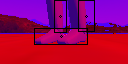
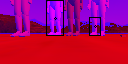
zombie

diff --git a/Zombie world/controllers/youbot_controller/youbot_controller.py b/Zombie world/controllers/youbot_controller/youbot_controller.py
@@ -5,6 +5,7 @@ from controller import Supervisor
 import numpy as np
 import cv2
 import math
+import pprint
 
 
 
@@ -170,8 +171,7 @@ def main():
         img_float32 = cv2.rotate(img_float32, cv2.ROTATE_90_CLOCKWISE)
         img_float32 = cv2.flip(img_float32, 1)
         image = cv2.cvtColor(img_float32, cv2.COLOR_RGB2HSV)
-        original_image = image.copy()
-        cv2.imwrite(f"original-sample-{i}.png",image)
+        original_image = cv2.cvtColor(img_float32, cv2.COLOR_RGB2HSV)
 
 
 
@@ -250,7 +250,7 @@ def main():
 
    
         
-        cv2.imwrite(f"bw-{i}.png",img)
+        # cv2.imwrite(f"bw-{i}.png",img)
         # ret,thresh = cv2.threshold(img,127,0,cv2.THRESH_BINARY)
         # thresh1 = cv2.adaptiveThreshold(img,255,cv2.ADAPTIVE_THRESH_MEAN_C,cv2.THRESH_BINARY,11,2)
 
@@ -258,7 +258,7 @@ def main():
         # thresh0 = cv2.Canny(img,50,100)
         contours, hierarchy = cv2.findContours(thresh,cv2.RETR_TREE,cv2.CHAIN_APPROX_SIMPLE)
         
-        print('countors',len(contours))
+        # print('countors',len(contours))
         
         # remove largest contour
         # get avergae pixel value of each contour
@@ -269,13 +269,11 @@ def main():
 
         # cv2.drawContours(original_image, contours, -1, (255,0,0), 1)
         # cv2.drawContours(img, contours, -1, (255,255,255), 1)
-        cv2.imwrite(f"thresh-{i}.png",thresh)
+        # cv2.imwrite(f"thresh-{i}.png",thresh)
         # find the bounding box of each contour
         bounding_boxes = [cv2.boundingRect(c) for c in contours]
         # remove bounding box with (0, 0, 128, 64) dimensions
         bounding_boxes = [b for b in bounding_boxes if b != (0, 0, 128, 64)]
-        for box in bounding_boxes:
-            print('before merge', box)
 
         # merge bounding boxes that overlap
         unused_boxes = bounding_boxes.copy()
@@ -293,7 +291,7 @@ def main():
                             y = min(y, y2)
                             w = max(x + w, x2 + w2) - x
                             h = max(y + h, y2 + h2) - y
-                            print('merged box', (x, y, w, h), 'from', box, box2)
+                            # print('merged box', (x, y, w, h), 'from', box, box2)
                             merged_boxes.append((x, y, w, h))
                             used_boxes.append(box)
                             if (box in unused_boxes):
@@ -321,29 +319,104 @@ def main():
 
         # remove bounding boxes that are too small
         bounding_boxes = [b for b in bounding_boxes if b[2] > 10 and b[3] > 10]
-        for box in bounding_boxes:
-            print('after merge', box)
+        merged_boxes = merge_boxes(bounding_boxes)
+        # add merged boxes to img
 
 
 
 
         # draw bounding boxes on image in black
         for box in bounding_boxes:
-            cv2.rectangle(original_image, box, (0,0,0), 1)
-            cv2.rectangle(img, box, (0,0,0), 1)
+            # if box width is greater than height, and it is in the lower half of the image, and the area is less than 500
+            is_foot = False
+            x, y, w, h = box
+            if (i == 32):
+                print('box', box, 'area', w * h, 'x', x, 'y', y, 'w', w, 'h', h)
+            if w >= h and y > 20 and w * h < 500:
+                # draw bounding box in white
+                is_foot = True
+                cv2.rectangle(original_image, (x, y), (x + w, y + h), (0, 0, 0), 1)
+            else:
+                cv2.rectangle(original_image, box, (0,0,0), 1)
+
+            
+
+
+
+            
         # find the center of each bounding box
 
         # get the the center pixel value of each bounding box
+
+        time_step_array = []
         for box in bounding_boxes:
-            # get the center of the bounding box
             center = (box[0] + box[2]//2, box[1] + box[3]//2)
+            likely_color = "unknown"
             # get mean of pixel value around the center of the bounding box
             mean = np.mean(image[center[1]-5:center[1]+5, center[0]-5:center[0]+5])
-            print('pixel value', i ,mean)
+            # get mean rgb pixel value around the center of the bounding box
+            mean_rgb = np.mean(image[center[1]-5:center[1]+5, center[0]-5:center[0]+5], axis=(0,1))
+
+            if (mean_rgb[0] > 245 and mean_rgb[1] > 180):
+                likely_color = "blue" 
+            elif (mean_rgb[0] > 225 and mean_rgb[1] > 170):
+                likely_color = "green" 
+            elif (mean_rgb[0] > 245 and mean_rgb[1] < 100):
+                likely_color = "purple" 
+            if (mean_rgb[0] > 245 and mean_rgb[1] > 101):
+                likely_color = "turquoise"
+            
+
+            mean_grayscale_value = np.mean(img[center[1]-5:center[1]+5, center[0]-5:center[0]+5])
+            # print('pixel value', i ,mean)
             # if the pixel value is not black, draw a circle at the center of the bounding box
             if mean != 0:
                 cv2.circle(original_image, center, 1, (0,0,0), 1)
                 cv2.circle(img, center, 1, (0,0,0), 1)
+                # get avg pixel value around center of bounding box
+                bounding_box_x_center = center[0]
+                bounding_box_lowest_y_coordinate = box[1] + box[3]
+                print('bounding_box_x_center', bounding_box_x_center, 'bounding_box_lowest_y_coordinate', bounding_box_lowest_y_coordinate, 'box', box, 'shape', original_image.shape)
+                # get the pixel of original image of the variables above
+                pixel_below_bounding_box = original_image[bounding_box_lowest_y_coordinate, bounding_box_x_center]
+                angle_pixel_coordinate = (bounding_box_x_center, bounding_box_lowest_y_coordinate)
+
+
+            
+                # print('pixel_below_bounding_box', pixel_below_bounding_box)
+                # if (pixel_below_bounding_box[2] >= 200 and pixel_below_bounding_box[2] <= 225):
+                #     is_foot = True
+                #     angle_pixel_coordinate = (bounding_box_x_center, bounding_box_lowest_y_coordinate)
+                # else:
+                #     new_pixel = pixel_below_bounding_box
+                #     while (new_pixel[2] < 200 or new_pixel[2] > 225):
+                #         print('new_pixel', new_pixel)
+                #         bounding_box_lowest_y_coordinate += 1
+                #         new_pixel = image[bounding_box_lowest_y_coordinate, bounding_box_x_center]
+                #         if (new_pixel[2] >= 200 and new_pixel[2] <= 225):
+                #             angle_pixel_coordinate = (bounding_box_x_center, bounding_box_lowest_y_coordinate)
+                #             break
+                center_pixel_coordinates = (64,64)
+                # calculate angle between center pixel and angle pixel in degrees
+                angle = math.degrees(math.atan2(angle_pixel_coordinate[1] - center_pixel_coordinates[1], angle_pixel_coordinate[0] - center_pixel_coordinates[0]))
+            zombie_obj = {
+                "type": 'zombie',
+                "zombie_color_guess": likely_color,
+                "is_close": is_foot,
+                "angle": angle,
+                "pixel_color": mean,
+                "pixel_rgb_color": mean_rgb,
+
+            }
+            time_step_array.append(zombie_obj)
+
+
+
+
+            
+
+
+
 
 
 
@@ -359,9 +432,10 @@ def main():
 
 
         print(i)
+        pprint.pprint(time_step_array)
         cv2.imwrite(f"sample-{i}.png",original_image)
         cv2.waitKey(1)
-        if (i == 15):
+        if (i == 10):
             break
 
 
@@ -375,3 +449,23 @@ def main():
 
 
 main()
+
+
+# # blue
+# array([254.26416, 188.83891, 228.58   ]
+# array([254.19077, 188.83807, 229.17   ]
+
+
+
+
+# # green
+# pixel_rgb_color': array([234.21764, 186.3212 , 228.08   ]
+
+
+# # purple
+# array([263.30103,  94.82111, 202.84   ]
+# array([263.99597 ,  99.899506, 212.19    ]
+
+
+# # turquoise
+# array([261.23218, 107.54085, 196.27   ]
